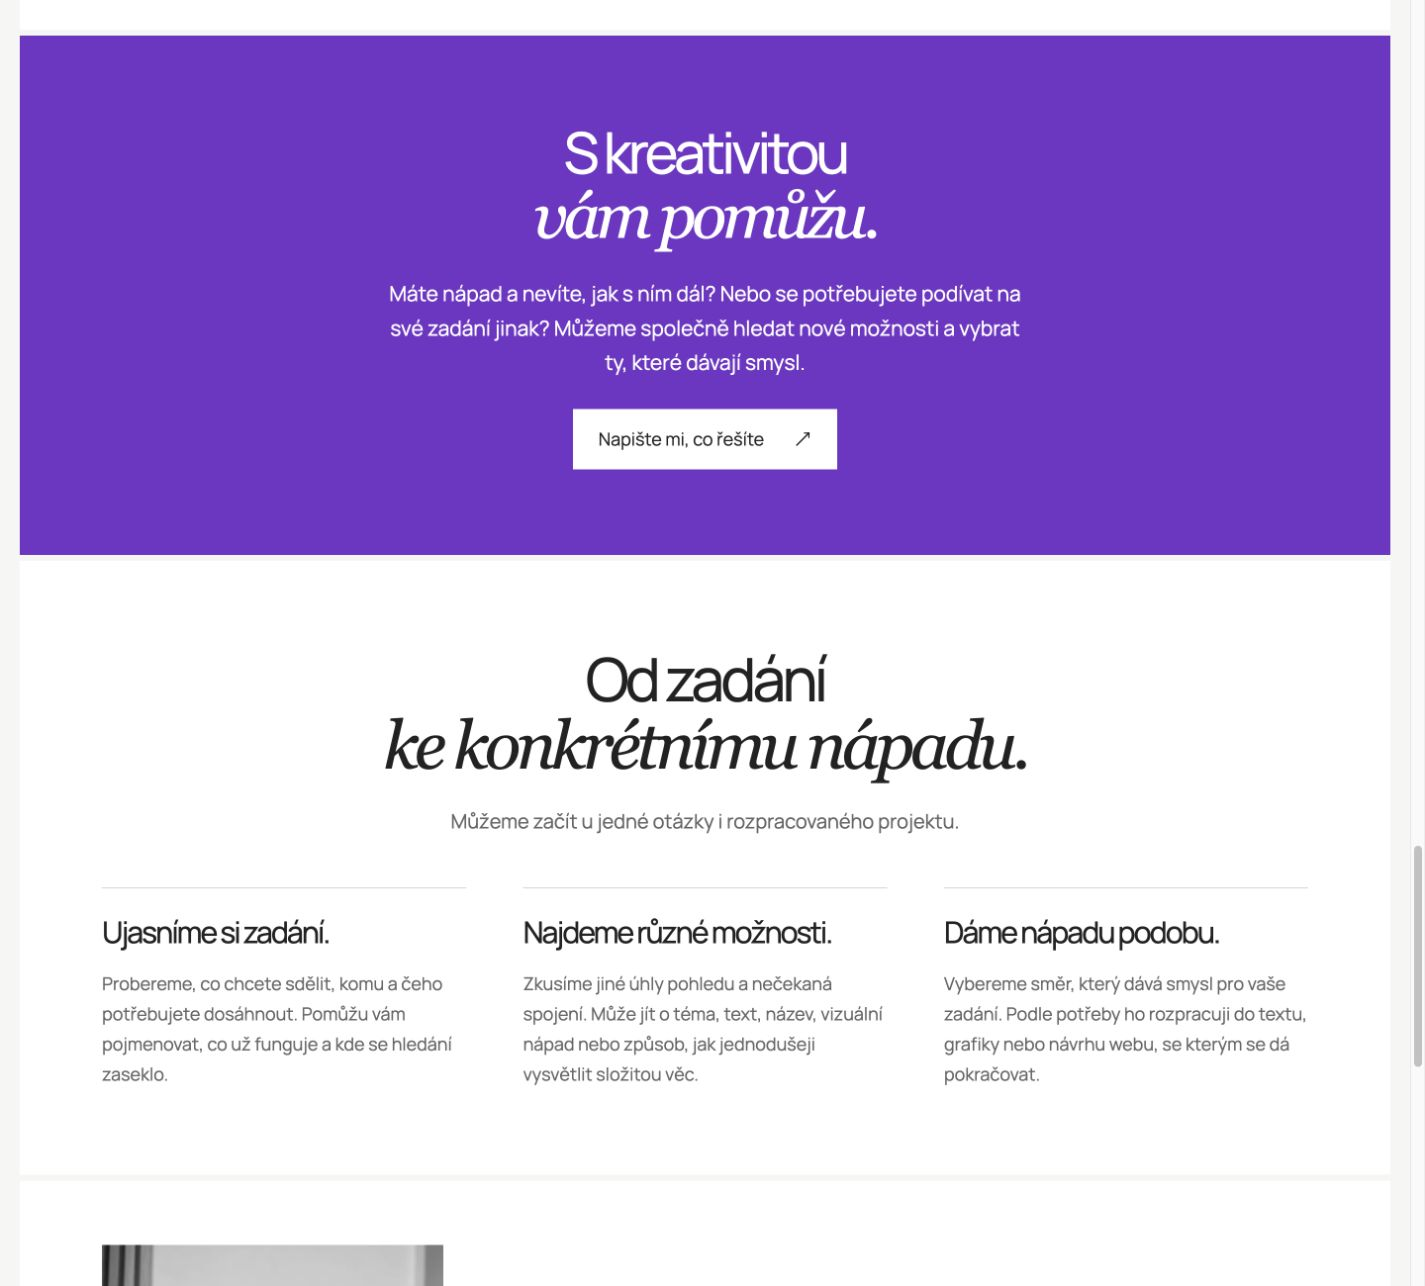
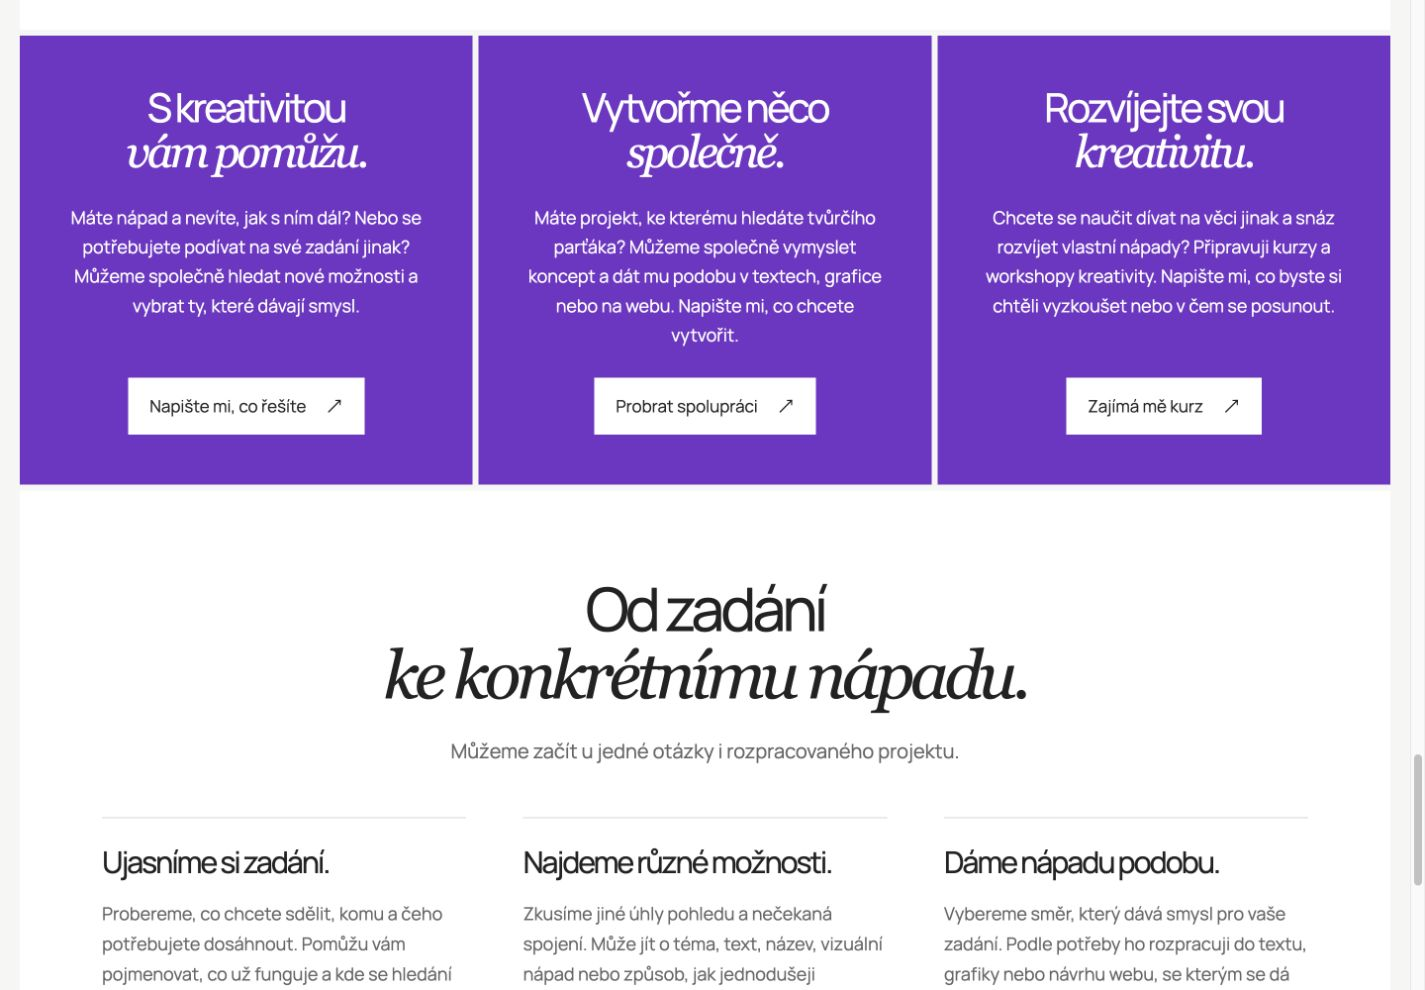
Rozdelit spolupraci do tri dlazdic za medailonkem

diff --git a/docs/DESIGN.md b/docs/DESIGN.md
@@ -749,3 +749,14 @@ Na doplňující otázku autor výslovně zvolil navázat popisem, jak s kreativ
 Ověřeno 1440/390/320 px bez vodorovného přesahu, bílé texty na fialové, funkční cílová adresa kontaktu a správná návaznost sekcí. Nadpis přínosu z předchozího commitu zůstává pod čtyřmi fotografiemi. Produkční build: 106 souborů bez chyb/varování/upozornění, 81 HTML a 2624 místních URL. Zdroj odpovídá oběma kontrolním kopiím, aktuální náhledy v README. Push obou navazujících úprav je autorizovaný trvalým pokynem autora.
 
 V následné diskusi autor upřesňuje důraz webu na kreativitu obecně a knihy. Některé vlastní práce veřejně prezentovat nechce, protože do koncepce nezapadají. Z toho nevytvářet automaticky portfolio ani nevymýšlet ukázky. Doporučení držet spolupráci jako vedlejší možnost a případné relevantní ukázky řešit individuálně je zatím diskusní návrh; další struktura webu tím nebyla přestavěna.
+
+
+## Tři fialové dlaždice až za medailonkem, homepage vynechat — 8. 11. 2026
+
+Autor rozděluje dosavadní fialovou výzvu na tři dlaždice: původní „S kreativitou vám pomůžu.“ s nezměněným textem, spolupráce na projektu „Vytvořme něco společně.“ a zájem o vzdělávání „Rozvíjejte svou kreativitu.“. Dlaždice mají stejnou fialovou #7433c7, bílé texty a bílé kontaktní odkazy. Tři sloupce nad 1000 px, na menších šířkách jeden; nadpisy, odstavce i tlačítka se na desktopu zarovnávají pomocí subgrid. Spára navazuje na 6/5 px zbytku stránky. Bez nových obrázků nebo animací.
+
+Pod trojicí zůstává nezměněný proces CreativityCollaboration.astro. Sdílená sestava CreativitySupport.astro se vkládá bezprostředně za autorův medailonek. Z MagazineIntroduction byla původní nabídka odstraněna; na /kreativec je nyní pořadí příklady → medailonek → tři dlaždice → proces → zdroje. Na poslední upřesnění autora je homepage výslovně VÝJIMKA a zůstává beze změny. Prověřené ostatní veřejné stránky medailonek nemají, proto na ně sestava nebyla přidána. Pravidlo pro případné další medailonky je zapsané také v AGENTS.md.
+
+Nové copy je pracovní návrh. Kurzy/workshopy se připravují; CTA vyjadřuje zájem, ne rezervaci dostupného kurzu. Všechny tři odkazy používají centrální skutečný veřejný e-mail a vlastní předmět. Nejsou přidané klientské ukázky, výsledky, ceny, termíny ani portfolio.
+
+Ověřeno 1440/1001/390/320 px bez vodorovného přesahu, stejné výšky a zarovnání dlaždic, bílý focus kontaktu, proklik Spolupráce Enterem z úvodu a správné cílové adresy. Žádná duplicitní ID, zdroje stále poslední sekce. Na homepage za medailonkem nadále následuje #co-delam a nové bloky tam nejsou. Konzole bez chyb/varování. Produkční npm run build prošel: 107 souborů bez chyb/varování/upozornění, 81 HTML a 2624 místních URL s /marek-stojka-web/. Náhled a kontrolní kopie synchronizované. Aktuální snímky v README; push a navazující zveřejnění jsou autorizované trvalým pokynem autora.

diff --git a/README.md b/README.md
@@ -475,3 +475,10 @@ Aktuální upřesnění (8. 11. 2026): nad čtyřmi fotografickými dlaždicemi 
 ### Barevná spolupráce s navazujícím popisem — 8. 11. 2026
 
 [Kontaktní výzva](http://127.0.0.1:4321/kreativec#pomoc-s-kreativitou) je vycentrovaná na fialovém pozadí. Hned pod ní navazuje nový [popis pomoci](http://127.0.0.1:4321/kreativec#jak-pomuzu) ve třech blocích: zadání, možnosti a konkrétní podoba nápadu. Pracovní text bez vymyšlených klientů či výsledků. [Desktop](docs/nahled-kreativita-pomoc.png), [mobilní návaznost](docs/nahled-kreativita-pomoc-mobile.png), [popis na mobilu](docs/nahled-kreativita-jak-pomuzu-mobile.jpg). Ověřeno 1440/390/320 px a skutečný kontaktní odkaz. Produkční build bez chyb: 106 souborů, 81 HTML a 2624 místních URL.
+
+
+### Tři možnosti spolupráce za medailonkem — 8. 11. 2026
+
+Na [/kreativec](http://127.0.0.1:4321/kreativec#pomoc-s-kreativitou) je hned za představením autora trojice fialových dlaždic: pomoc s nápadem, spolupráce na projektu a zájem o připravované kurzy kreativity. Pod nimi zůstává původní proces, zdroje jsou stále úplně dole. Homepage je výslovná výjimka a nemění se. Pro další obsahové stránky s medailonkem je sestava sdílená v CreativitySupport.astro.
+
+[Desktop](docs/nahled-kreativita-pomoc.png), [dlaždice na mobilu](docs/nahled-kreativita-pomoc-mobile.png), [kurzy a navazující proces](docs/nahled-kreativita-kurzy-mobile.png). Tři zarovnané sloupce nad 1000 px, na menších šířkách pod sebou. Každý kontaktní odkaz má vlastní předmět; kurzy zatím bez rezervací a termínů. Ověřeno 1440/1001/390/320 px, navigace klávesnicí, homepage bez nových bloků, konzole bez chyb. Produkční build: 107 souborů bez chyb/varování/upozornění, 81 HTML a 2624 místních URL.

diff --git a/AGENTS.md b/AGENTS.md
@@ -253,3 +253,8 @@ PaperTransition.astro přidává vstup přes celou dlaždici Jsem kreativec v ob
 ## Průběžné odesílání na GitHub — aktuální pokyn 8. 11. 2026
 
 Autor výslovně zadal „úpravy házej rovnou na git“. Hotové úpravy zadané autorem po relevantní kontrole a úspěšném npm run build rovnou commitnout a pushnout do stávajícího repozitáře MarekStojka/marek-stojka-web, větev main. Nečekat na další samostatný pokyn k pushi. Autorizace zahrnuje navazující automatické zveřejnění; ověřit Check and build a Publish website. Starší požadavky čekat na potvrzení před odesláním změn tohoto existujícího webu jsou tím překonané.
+
+
+## Tři možnosti spolupráce za medailonkem — 8. 11. 2026
+
+Na obsahových stránkách s medailonkem autora hned za něj patří společná sestava CreativitySupport.astro: tři fialové dlaždice (původní pomoc s nápadem / spolupráce na projektu / zájem o kurzy kreativity), pod nimi dosavadní proces Od zadání ke konkrétnímu nápadu. Autor výslovně vyjmul HOMEPAGE — tam tuto sestavu za představení nepřidávat. Aktuálně se tedy používá na /kreativec; ostatní veřejné stránky medailonek nemají. Původní text první dlaždice i proces zachované, nové texty jsou pracovní. Kurzy/workshopy se připravují, zájem jde skutečným mailto s vlastním předmětem; nevymýšlet termíny, dostupnost ani rezervace. Zdroje zůstávají úplně dole.
